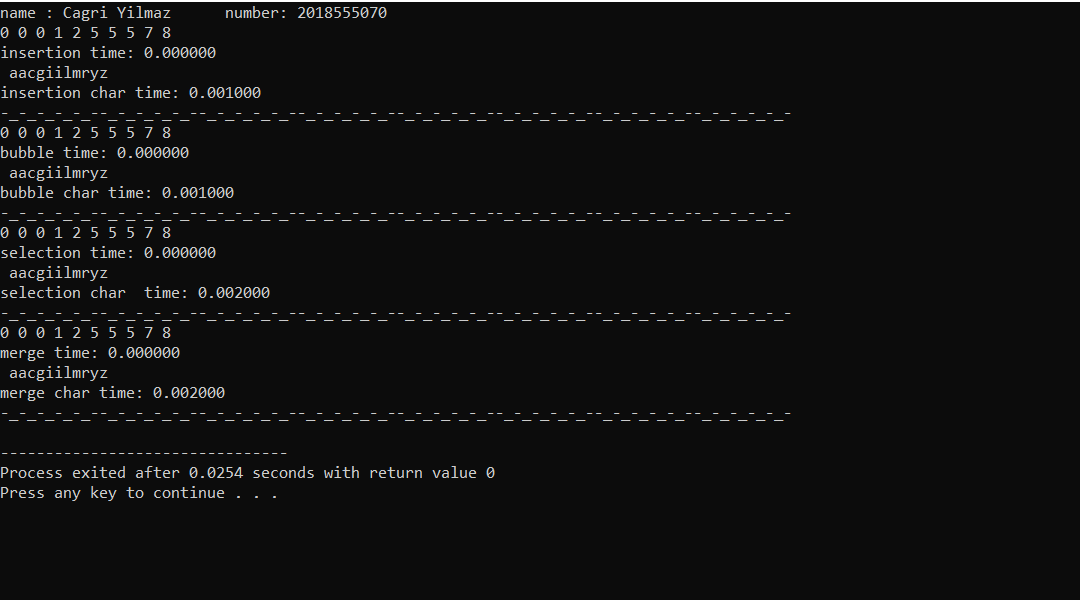
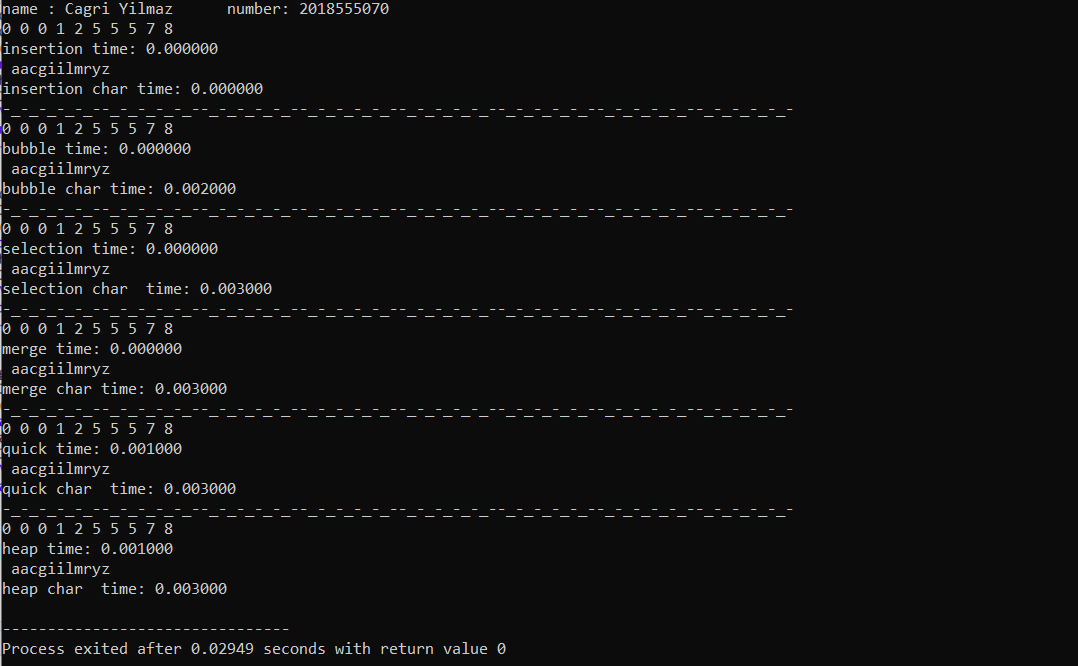
Quick Sort and Heap Sort 2018555070 (#252)

diff --git a/Sorting/2018555070 Çağrı Yılmaz/main.c b/Sorting/2018555070 Çağrı Yılmaz/main.c
@@ -246,6 +246,139 @@ void mergeSortChar(char arr[], int x, int y){
     }
 }
 
+
+//quick
+void quickSort(int *array,int first,int last){
+    int i; 
+    int j; 
+    int pivot; 
+    char temp; 
+    pivot=first; 
+   
+    
+    if(last>first){
+        pivot=first;
+        i=first;
+        j=last;
+        while (i<j){
+            while (array[i]<=array[pivot] && i<last && j>i){ 
+                i++;
+            }
+            while (array[j]>=array[pivot] && j>=first && j>=i){
+                j--;
+            }
+            if (j>i){ 
+                temp=array[i];
+                array[i]=array[j];
+                array[j]=temp;
+            }
+        }
+       
+        temp=array[j];
+        array[j]=array[pivot];
+        array[pivot]=temp;
+        quickSort(array,first,j-1);
+        quickSort(array,j+1,last);
+    }
+}
+void quickSortChar(char *array,char first,char last){
+    int i; 
+    int j; 
+    char pivot; 
+    int temp; 
+    pivot=first; 
+   
+    
+    if(last>first){
+        pivot=first;
+        i=first;
+        j=last;
+        while (i<j){
+            while (array[i]<=array[pivot] && i<last && j>i){ 
+                i++;
+            }
+            while (array[j]>=array[pivot] && j>=first && j>=i){
+                j--;
+            }
+            if (j>i){ 
+                temp=array[i];
+                array[i]=array[j];
+                array[j]=temp;
+            }
+        }
+       
+        temp=array[j];
+        array[j]=array[pivot];
+        array[pivot]=temp;
+        quickSort(array,first,j-1);
+        quickSort(array,j+1,last);
+    }
+}
+
+//heap
+void heapSort (int *x, int size)
+{
+   int  left, right, temp;
+ 
+   if (size <= 1)
+      return;
+   left = size / 2;
+   right = size - 1;
+ 
+   while (--left >= 0)
+      heapify(x, left, right);
+ 
+   for (;;) {
+      temp = x[0];
+      x[0] = x[right];
+      x[right] = temp;
+      if (--right <= 0)
+         break;
+      heapify(x, 0, right);
+   }
+}
+
+
+void heapify(int *x, int left, int right)
+{
+   int temp, i;
+ 
+   i = left +left +1;
+    temp = x[left];
+ 
+   do {
+      if (i < right && x[i] < x[i+1])
+         i++;
+      if (temp >= x[i])
+         break;
+      x[left] = x[i];
+      left = i;
+      i = 2 * i + 1;
+   } while (i <= right);
+   x[left] = temp;
+}
+void heapSortChar (char *x, int size)
+{
+   int  left, right, temp;
+ 
+   if (size <= 1)
+      return;
+   left = size / 2;
+   right = size - 1;
+ 
+   while (--left >= 0)
+      heapify(x, left, right);
+ 
+   for (;;) {
+      temp = x[0];
+      x[0] = x[right];
+      x[right] = temp;
+      if (--right <= 0)
+         break;
+      heapify(x, 0, right);
+   }
+}
+
 int main() {
  
     printf("name : Cagri Yilmaz \t number: 2018555070 \n");
@@ -312,6 +445,28 @@ printf("-_-_-_-_-_--_-_-_-_-_--_-_-_-_-_--_-_-_-_-_--_-_-_-_-_--_-_-_-_-_--_-_-_
     printf("%s\n", name);
     printf("merge char time: %f\n", ((double)zaman1) / CLOCKS_PER_SEC);
     printf("-_-_-_-_-_--_-_-_-_-_--_-_-_-_-_--_-_-_-_-_--_-_-_-_-_--_-_-_-_-_--_-_-_-_-_--_-_-_-_-_-\n");
+    
+    //quick
+    quickSort(ogrenci_no,0,n-1);
+    zaman1 = clock() - zaman1;
+    printArray(ogrenci_no, n);
+    printf("quick time: %f\n", ((double)zaman1) / CLOCKS_PER_SEC);
+    quickSortChar(name,0,char_size-99);
+    zaman1 = clock() - zaman1;
+    printf("%s\n", name);
+    printf("quick char  time: %f\n", ((double)zaman1) / CLOCKS_PER_SEC);
+    printf("-_-_-_-_-_--_-_-_-_-_--_-_-_-_-_--_-_-_-_-_--_-_-_-_-_--_-_-_-_-_--_-_-_-_-_--_-_-_-_-_-\n");
+    
+    //heap
+    heapSort(ogrenci_no,n);
+    zaman1 = clock() - zaman1;
+    printArray(ogrenci_no, n);
+    printf("heap time: %f\n", ((double)zaman1) / CLOCKS_PER_SEC);
+    heapSortChar(name,0);
+    zaman1 = clock() - zaman1;
+    printf("%s\n", name);
+    printf("heap char  time: %f\n", ((double)zaman1) / CLOCKS_PER_SEC);
+    
 
     return 0;
 }
